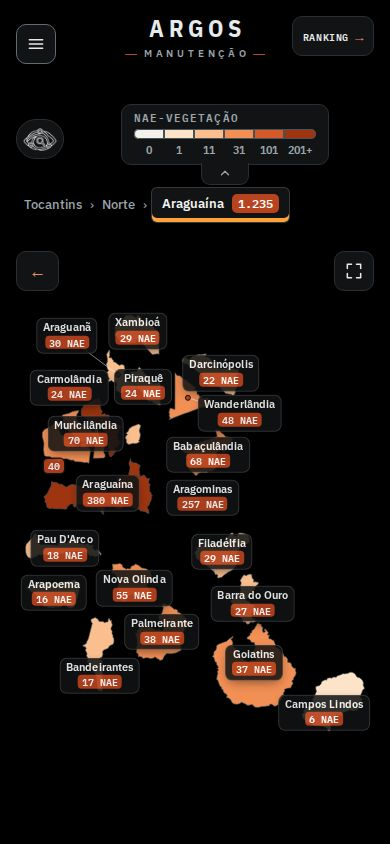
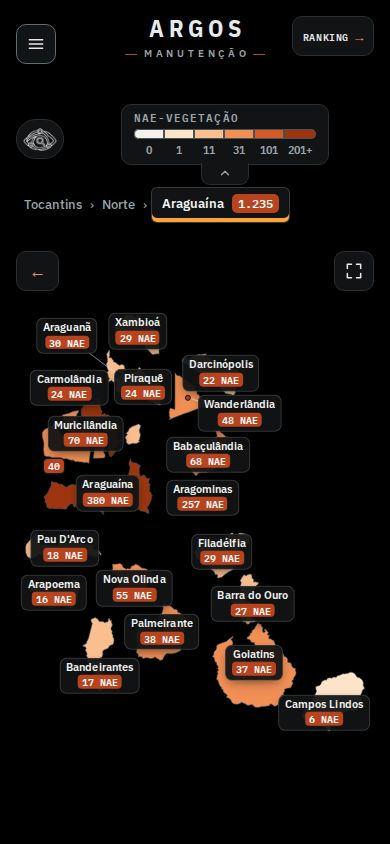
melhorias-noite: parciais da rodada 3
Claude-Session: https://claude.ai/code/session_018woaiHzb4mGD5Xwecj19aJ

diff --git a/melhorias-noite/rodada-3/tema-3-tipografia/perf.js b/melhorias-noite/rodada-3/tema-3-tipografia/perf.js
@@ -1,31 +1,35 @@
-// Custo do afastamento adaptativo + rótulos: CPU 4x mais lenta, 5 repetições por polo; mede (a) a parte síncrona ao abrir o polo
-// (entraPolo: afastamento base + ajuste) e (b) as tarefas longas (>50 ms) da animação inteira. Uso: node perf.js
+// Custo do afastamento adaptativo + rótulos: CPU 4x mais lenta; abre 3 polos (os mais densos), 4 vezes cada, ALTERNANDO antes/depois a cada
+// abertura (a carga da máquina varia ao longo do tempo; alternar divide o ruído entre os dois). Mede (a) a parte síncrona ao abrir o polo
+// (entraPolo: afastamento base + ajuste) e (b) as tarefas longas (>50 ms) da animação inteira, incluindo o poeNomes do fim.
+// Uso: node perf.js
 const { chromium } = require('/opt/node22/lib/node_modules/playwright');
-const path = require('path'), fs = require('fs');
 const { liga, arquivosModo } = require('./rede.js');
 const BASE = 'https://lgrsv.github.io/vera-vegeta-o-back/teste/';
 (async () => {
   const b = await chromium.launch();
-  for (const modo of ['antes', 'depois']) {
-    const over = arquivosModo(modo);
-    for (const [tn, vp] of [['desk', { width: 1440, height: 900 }], ['cel', { width: 390, height: 844 }]]) {
-      const ctx = await b.newContext({ viewport: vp, isMobile: tn === 'cel', hasTouch: tn === 'cel' }); await liga(ctx, over);
+  for (const [tn, vp] of [['desk', { width: 1440, height: 900 }], ['cel', { width: 390, height: 844 }]]) {
+    const pg = {};
+    for (const modo of ['antes', 'depois']) {
+      const ctx = await b.newContext({ viewport: vp, isMobile: tn === 'cel', hasTouch: tn === 'cel' }); await liga(ctx, arquivosModo(modo));
       const p = await ctx.newPage(); await p.goto(BASE, { waitUntil: 'load' }); await p.waitForTimeout(800);
       const cdp = await ctx.newCDPSession(p); await cdp.send('Emulation.setCPUThrottlingRate', { rate: 4 });
-      const res = [];
-      for (const polo of ['Augustinópolis', 'Paraíso', 'Palmas']) for (let i = 0; i < 3; i++) {
-        const r = await p.evaluate(async polo => {
-          window.__lt = []; const po = new PerformanceObserver(l => l.getEntries().forEach(e => window.__lt.push(e.duration))); po.observe({ type: 'longtask', buffered: false });
-          const t0 = performance.now(); window.ARGOS_MAPA.vai({ polo }); const sync = performance.now() - t0;
-          await new Promise(r => setTimeout(r, 1800)); po.disconnect();
-          return { sync, lt: window.__lt.length, ltMax: Math.max(0, ...window.__lt), ltSoma: window.__lt.reduce((a, c) => a + c, 0), nomes: document.querySelectorAll('.mt-nomes2 .mt-mn').length };
-        }, polo);
-        res.push({ polo, ...r }); await p.evaluate(() => window.ARGOS_MAPA.vai({})); await p.waitForTimeout(1300);
-      }
-      const med = k => { const v = res.map(r => r[k]).sort((a, b) => a - b); return +v[Math.floor(v.length / 2)].toFixed(1); };
-      console.log(modo, tn, 'sync(ms, mediana)', med('sync'), '| tarefas longas por abertura', med('lt'), 'maior', med('ltMax'), 'soma', med('ltSoma'));
-      await ctx.close();
+      pg[modo] = p;
     }
+    const res = { antes: [], depois: [] };
+    for (let i = 0; i < 4; i++) for (const polo of ['Augustinópolis', 'Paraíso', 'Guaraí']) for (const modo of ['antes', 'depois']) {
+      const p = pg[modo];
+      const r = await p.evaluate(async polo => {
+        window.__lt = []; const po = new PerformanceObserver(l => l.getEntries().forEach(e => window.__lt.push(e.duration))); po.observe({ type: 'longtask', buffered: false });
+        const t0 = performance.now(); window.ARGOS_MAPA.vai({ polo }); const sync = performance.now() - t0;
+        await new Promise(r => setTimeout(r, 2200)); po.disconnect();
+        return { sync, lt: window.__lt.length, ltMax: Math.max(0, ...window.__lt), ltSoma: window.__lt.reduce((a, c) => a + c, 0), nomes: document.querySelectorAll('.mt-nomes2 .mt-mn').length };
+      }, polo);
+      res[modo].push(r); await p.evaluate(() => window.ARGOS_MAPA.vai({})); await p.waitForTimeout(1300);
+    }
+    const med = (modo, k) => { const v = res[modo].map(r => r[k]).sort((a, c) => a - c); return +v[Math.floor(v.length / 2)].toFixed(1); };
+    for (const modo of ['antes', 'depois'])
+      console.log(modo.padEnd(6), tn, 'sync(ms, mediana)', med(modo, 'sync'), '| tarefas longas por abertura', med(modo, 'lt'), '| maior', med(modo, 'ltMax'), '| soma', med(modo, 'ltSoma'), '| n=' + res[modo].length);
+    for (const p of Object.values(pg)) await p.context().close();
   }
   await b.close();
 })();
